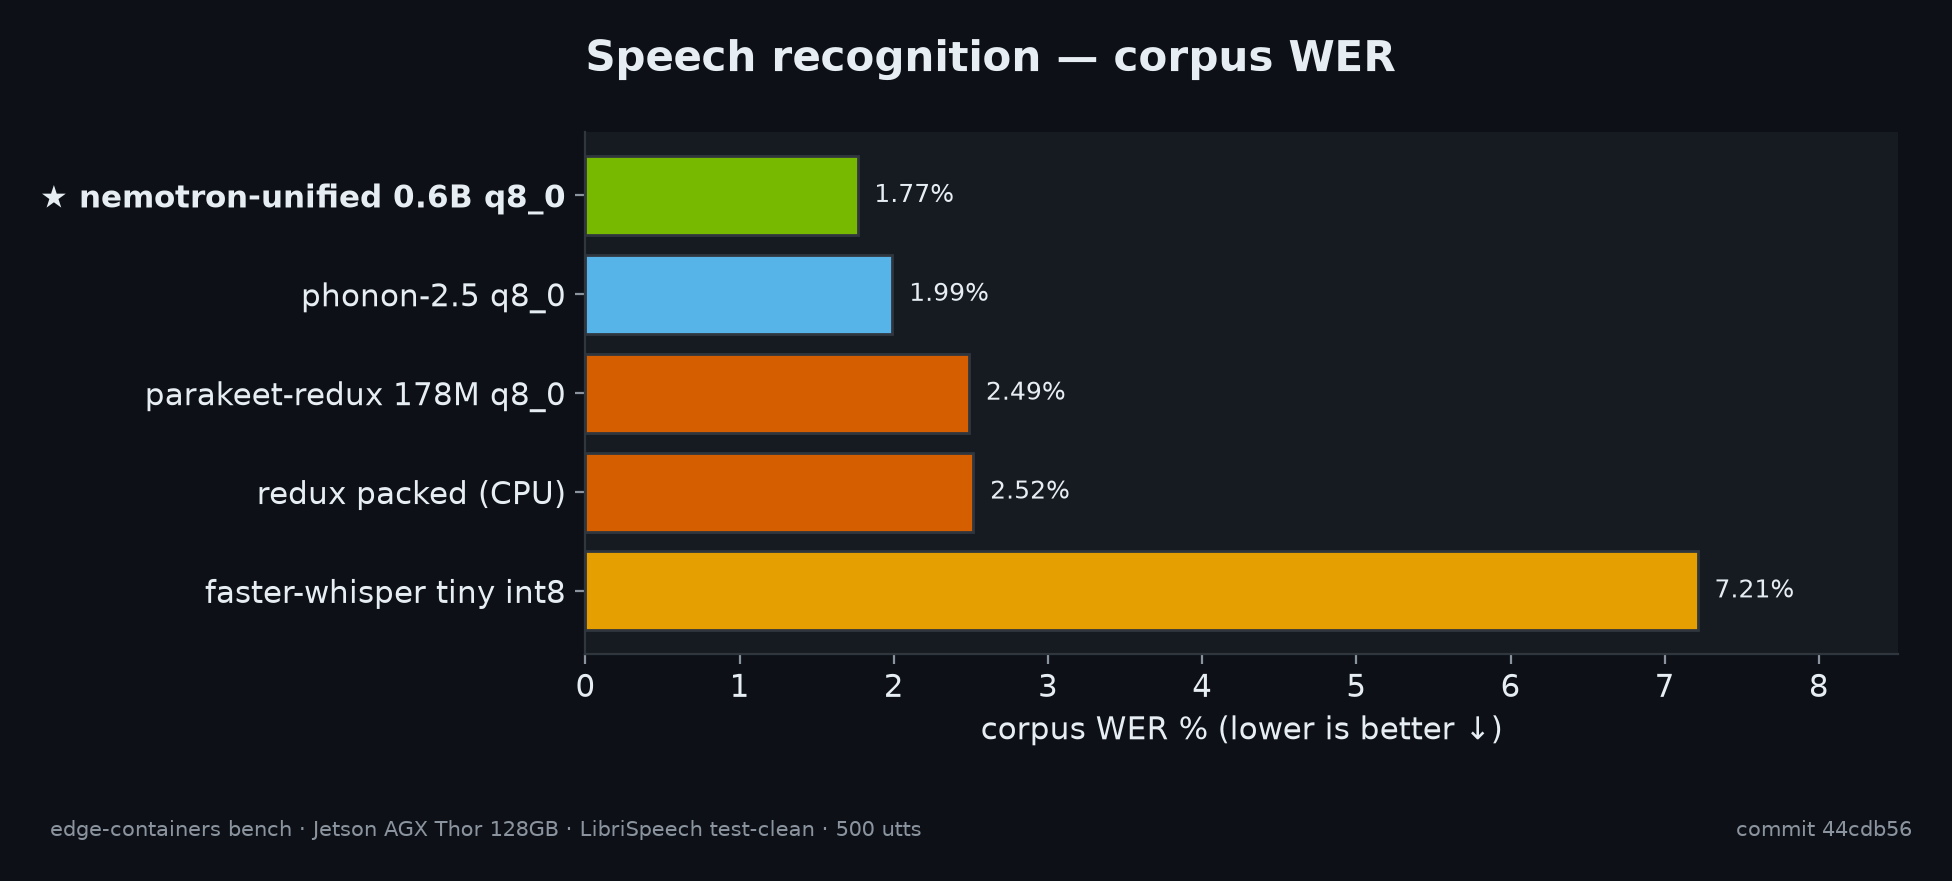
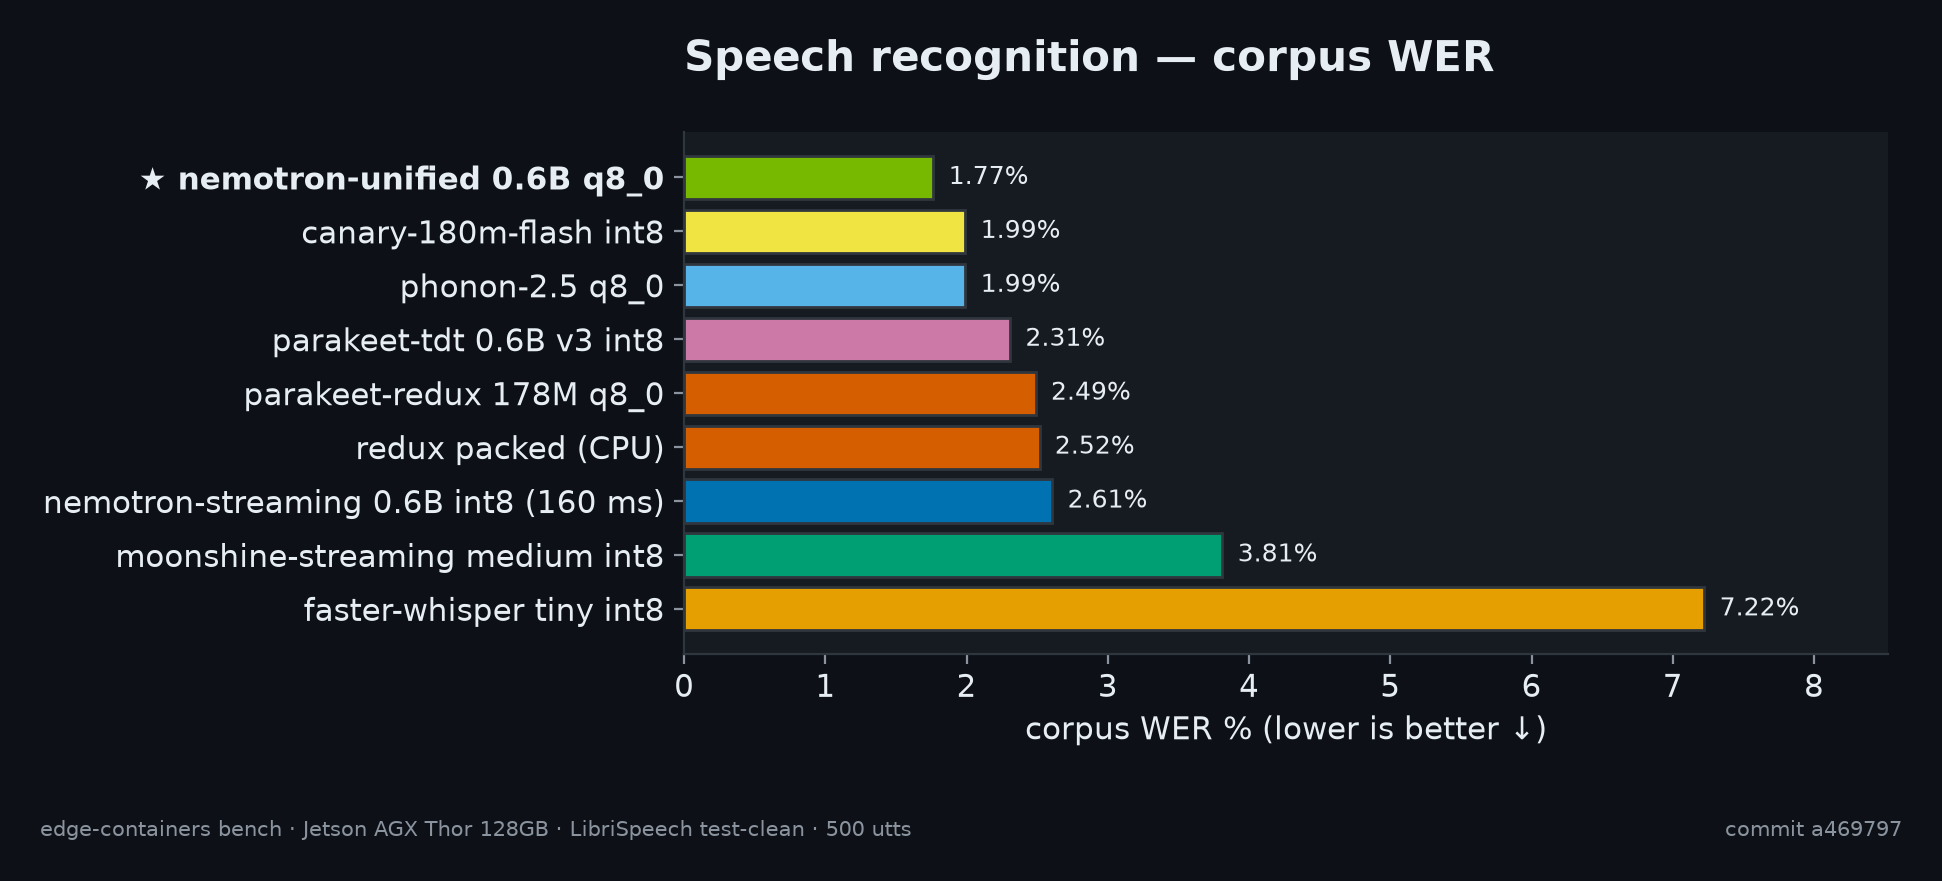
bench 2026-11-02: full matrix for 13 engine-configs
Two complete baseline re-runs (STT 9x500, TTS 5x444 + pocket killed at
70/444 on request — its incomplete row is auto-excluded by select_rows,
and the matrix keeps the earlier complete pocket row from the first TTS
run instead: RTF p50 0.39 on torch 2.15 + mkldnn off).

- four new STT engines pass 500/500 after the bytes-pcm fix; canary
  CPU int8 lands #2 STT overall at 2.0% WER, behind nemotron-unified GPU
- paradee 0.2.0 (v1.2 weights) measured on cuda + cpu, superseding v1.0
- pocket-tts image reverted to torch 2.15 + mkldnn off: oneDNN aarch64
  is 2.7x SLOWER than the reference+NVPL path (RTF 1.06 vs 0.39 on
  2.14.1) and crashes on 2.15 — measured, not guessed; E9 updated
- 11 charts regenerated; 4 run dirs published (failed runs kept as
  provenance, excluded from the matrix by completeness)

diff --git a/README.md b/README.md
@@ -71,7 +71,7 @@ sm_110a baked side by side, plus forward-compat PTX — so no per-board tags.
 
 > Rendered from the raw benchmark artifacts (`benchmarks/raw/`, `benchmarks/history.jsonl`)
 by `bench plot --readme` — regenerate with `make bench-plot`.
-> Cohort: **jetson-agx-thor-128gb · default power · commit 44cdb56 · 2026-11-02**.
+> Cohort: **jetson-agx-thor-128gb · default power · commit 3a7634f · 2026-11-02**.
 Charts: ★ marks the best engine for that chart's metric. Memory: **cgroup MiB**
 counts the container's active file cache too (the model was just read from
 disk); **anon MiB** is true process memory.
@@ -81,15 +81,19 @@ disk); **anon MiB** is true process memory.
 
 | engine | model | backend | WER | CER | SER | halluc. | RTF p50 | RTF p90 | lat p50 (s) | lat p90 (s) | cgroup MiB | anon MiB | GPU W |
 |---|--:|--:|--:|--:|--:|--:|--:|--:|--:|--:|--:|--:|--:|
-| 🥇 nemotron-unified-asr | nemotron-unified 0.6B q8_0 | cuda | $\color{#3fb950}{\text{0.0177}}$ | $\color{#3fb950}{\text{0.0047}}$ | $\color{#3fb950}{\text{0.2240}}$ | $\color{#3fb950}{\text{0.0000}}$ | $\color{#f85149}{\text{0.1092}}$ | $\color{#f85149}{\text{0.2380}}$ | $\color{#f85149}{\text{0.6920}}$ | 0.7954 | 2,179 | 1,029 | 7 |
-| 🥈 phonon2-stt | phonon-2.5 q8_0 | cuda | 0.0199 | 0.0061 | 0.2620 | $\color{#3fb950}{\text{0.0000}}$ | 0.1051 | 0.2321 | 0.6686 | 0.7717 | 2,170 | 1,030 | 7 |
-| 🥉 parakeet-redux-stt | parakeet-redux 178M q8_0 | cuda | 0.0249 | 0.0083 | 0.3200 | $\color{#3fb950}{\text{0.0000}}$ | 0.1055 | 0.2323 | 0.6677 | 0.7716 | 2,181 | 1,031 | 7 |
-| parakeet-redux-stt | redux packed (CPU) | cpu | 0.0252 | 0.0083 | 0.3200 | $\color{#3fb950}{\text{0.0000}}$ | 0.0668 | 0.1001 | 0.4241 | $\color{#f85149}{\text{0.8946}}$ | 1,101 | 730 | — (CPU) |
-| wyoming-faster-whisper | faster-whisper tiny int8 | cuda | $\color{#f85149}{\text{0.0721}}$ | $\color{#f85149}{\text{0.0279}}$ | $\color{#f85149}{\text{0.5940}}$ | $\color{#f85149}{\text{0.0020}}$ | $\color{#3fb950}{\text{0.0118}}$ | $\color{#3fb950}{\text{0.0179}}$ | $\color{#3fb950}{\text{0.0748}}$ | $\color{#3fb950}{\text{0.1375}}$ | 616 | 561 | 14 |
+| 🥇 nemotron-unified-asr | nemotron-unified 0.6B q8_0 | cuda | $\color{#3fb950}{\text{0.0177}}$ | $\color{#3fb950}{\text{0.0047}}$ | $\color{#3fb950}{\text{0.2240}}$ | $\color{#3fb950}{\text{0.0000}}$ | 0.1126 | 0.2469 | 0.7162 | 0.8270 | 2,179 | 1,030 | 7 |
+| 🥈 canary-flash-stt | canary-180m-flash int8 | cpu | 0.0199 | 0.0055 | 0.2460 | $\color{#3fb950}{\text{0.0000}}$ | 0.1610 | 0.2283 | 0.9770 | 3.8869 | 777 | 766 | — (CPU) |
+| 🥉 phonon2-stt | phonon-2.5 q8_0 | cuda | 0.0199 | 0.0061 | 0.2620 | $\color{#3fb950}{\text{0.0000}}$ | 0.1093 | 0.2421 | 0.6962 | 0.8076 | 2,188 | 1,031 | 7 |
+| parakeet-tdt-stt | parakeet-tdt 0.6B v3 int8 | cpu | 0.0231 | 0.0079 | 0.3080 | $\color{#3fb950}{\text{0.0000}}$ | 0.1196 | 0.1298 | 0.7368 | 2.0574 | 1,313 | 1,300 | — (CPU) |
+| parakeet-redux-stt | parakeet-redux 178M q8_0 | cuda | 0.0249 | 0.0083 | 0.3200 | $\color{#3fb950}{\text{0.0000}}$ | 0.1108 | 0.2426 | 0.7019 | 0.8066 | 2,194 | 1,031 | 7 |
+| parakeet-redux-stt | redux packed (CPU) | cpu | 0.0252 | 0.0083 | 0.3200 | $\color{#3fb950}{\text{0.0000}}$ | 0.0743 | 0.1239 | 0.4879 | 0.9450 | 1,107 | 730 | — (CPU) |
+| nemotron-streaming-stt | nemotron-streaming 0.6B int8 (160 ms) | cpu | 0.0261 | 0.0085 | 0.3120 | $\color{#3fb950}{\text{0.0000}}$ | $\color{#f85149}{\text{0.7844}}$ | $\color{#f85149}{\text{0.7971}}$ | $\color{#f85149}{\text{4.9934}}$ | $\color{#f85149}{\text{13.5}}$ | 1,364 | 1,344 | — (CPU) |
+| moonshine-streaming-stt | moonshine-streaming medium int8 | cpu | 0.0381 | 0.0210 | 0.4720 | $\color{#3fb950}{\text{0.0000}}$ | 0.1707 | 0.2672 | 1.1922 | 3.0605 | 657 | 643 | — (CPU) |
+| wyoming-faster-whisper | faster-whisper tiny int8 | cuda | $\color{#f85149}{\text{0.0722}}$ | $\color{#f85149}{\text{0.0280}}$ | $\color{#f85149}{\text{0.5940}}$ | $\color{#f85149}{\text{0.0020}}$ | $\color{#3fb950}{\text{0.0130}}$ | $\color{#3fb950}{\text{0.0192}}$ | $\color{#3fb950}{\text{0.0859}}$ | $\color{#3fb950}{\text{0.1511}}$ | 616 | 562 | 13 |
 
-> *500 utterances · 5 configurations · 🥇 **nemotron-unified 0.6B q8_0** at **1.77% WER**
+> *500 utterances · 9 configurations · 🥇 **nemotron-unified 0.6B q8_0** at **1.77% WER**
 (🥇🥈🥉 = composite top 3); fastest RTF p50
-**0.012**. Green = best in column, red = worst. GPU W is the
+**0.013**. Green = best in column, red = worst. GPU W is the
 tegrastats module draw over each engine's window; the packed-CPU engine has none
 (hollow point, idle draw) in the power chart.*
 
@@ -123,14 +127,15 @@ tegrastats module draw over each engine's window; the packed-CPU engine has none
 
 | engine | model | backend | RTF p50 | RTF p90 | synth p50 (s) | synth p90 (s) | TTFA p50 (s) | TTFA p90 (s) | cgroup MiB | anon MiB | GPU W |
 |---|--:|--:|--:|--:|--:|--:|--:|--:|--:|--:|--:|
-| 🥇 kokoro-tts | kokoro 82M int8 | cuda | 0.0482 | 0.0868 | 0.3098 | 0.8135 | 0.3098 | 0.8096 | 1,583 | 1,457 | 14 |
-| 🥈 paradee-tts | paradee 8M int8 (CPU) | cpu | $\color{#f85149}{\text{0.1497}}$ | $\color{#f85149}{\text{0.1516}}$ | $\color{#f85149}{\text{1.1171}}$ | $\color{#f85149}{\text{3.2504}}$ | $\color{#f85149}{\text{1.1171}}$ | $\color{#f85149}{\text{3.2504}}$ | 629 | 563 | — (CPU) |
-| 🥉 paradee-tts | paradee 8M int8 (GPU) | cuda | $\color{#3fb950}{\text{0.0188}}$ | $\color{#3fb950}{\text{0.0462}}$ | $\color{#3fb950}{\text{0.1412}}$ | $\color{#3fb950}{\text{0.1905}}$ | 0.1412 | 0.1905 | 1,513 | 1,418 | 16 |
-| wyoming-piper1-tts | piper1-tts libritts-r medium | cuda | 0.0406 | 0.1210 | 0.1884 | 0.2413 | 0.1884 | 0.2413 | 1,158 | 1,099 | 26 |
-| phonon31m-tts | phonon-31m (CPU) | cpu | 0.1119 | 0.1216 | 0.6763 | 1.9760 | $\color{#3fb950}{\text{0.0663}}$ | $\color{#3fb950}{\text{0.0978}}$ | 512 | 498 | — (CPU) |
+| 🥇 pocket-tts | pocket-tts 100M | cpu | $\color{#f85149}{\text{0.3934}}$ | $\color{#f85149}{\text{0.5836}}$ | $\color{#f85149}{\text{2.5111}}$ | $\color{#f85149}{\text{53.8}}$ | $\color{#f85149}{\text{2.5111}}$ | $\color{#f85149}{\text{53.8}}$ | 4,229 | 4,173 | — (CPU) |
+| 🥈 kokoro-tts | kokoro 82M int8 | cuda | 0.0525 | 0.0953 | 0.3377 | 0.8554 | 0.3377 | 0.8346 | 1,590 | 1,465 | 14 |
+| 🥉 paradee-tts | paradee 8M int8 (CPU) | cpu | 0.0573 | 0.0586 | 0.4310 | 1.2937 | 0.4310 | 1.2937 | 1,956 | 1,888 | — (CPU) |
+| paradee-tts | paradee 8M int8 (GPU) | cuda | $\color{#3fb950}{\text{0.0110}}$ | $\color{#3fb950}{\text{0.0276}}$ | $\color{#3fb950}{\text{0.0863}}$ | $\color{#3fb950}{\text{0.1391}}$ | 0.0863 | 0.1391 | 1,462 | 1,388 | 14 |
+| wyoming-piper1-tts | piper1-tts libritts-r medium | cuda | 0.0363 | 0.1046 | 0.1684 | 0.1839 | 0.1684 | 0.1839 | 1,158 | 1,100 | 11 |
+| phonon31m-tts | phonon-31m (CPU) | cpu | 0.1384 | 0.1502 | 0.8234 | 2.4125 | $\color{#3fb950}{\text{0.0845}}$ | $\color{#3fb950}{\text{0.1169}}$ | 526 | 508 | — (CPU) |
 
-> *444 sentences · 5 configurations · 🥇🥈🥉 = composite top 3 · fastest RTF p50
-**0.019**; best TTFA p50 **66 ms**
+> *444 sentences · 6 configurations · 🥇🥈🥉 = composite top 3 · fastest RTF p50
+**0.011**; best TTFA p50 **84 ms**
 (300 ms gate). TTFA = time to first audio: streaming engines report the first
 chunk; single-chunk engines (paradee, piper1-tts) deliver at synthesis completion, so
 their TTFA equals the synth p50/p90.*
